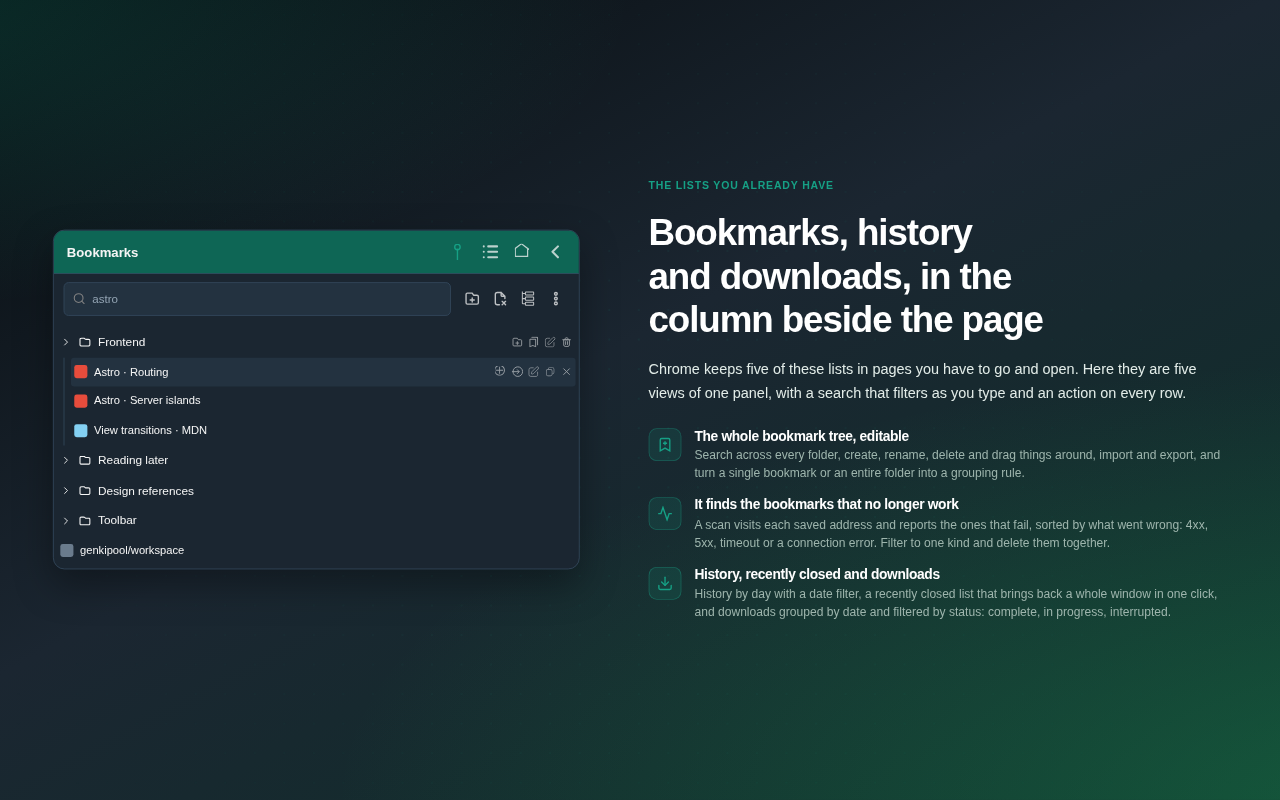
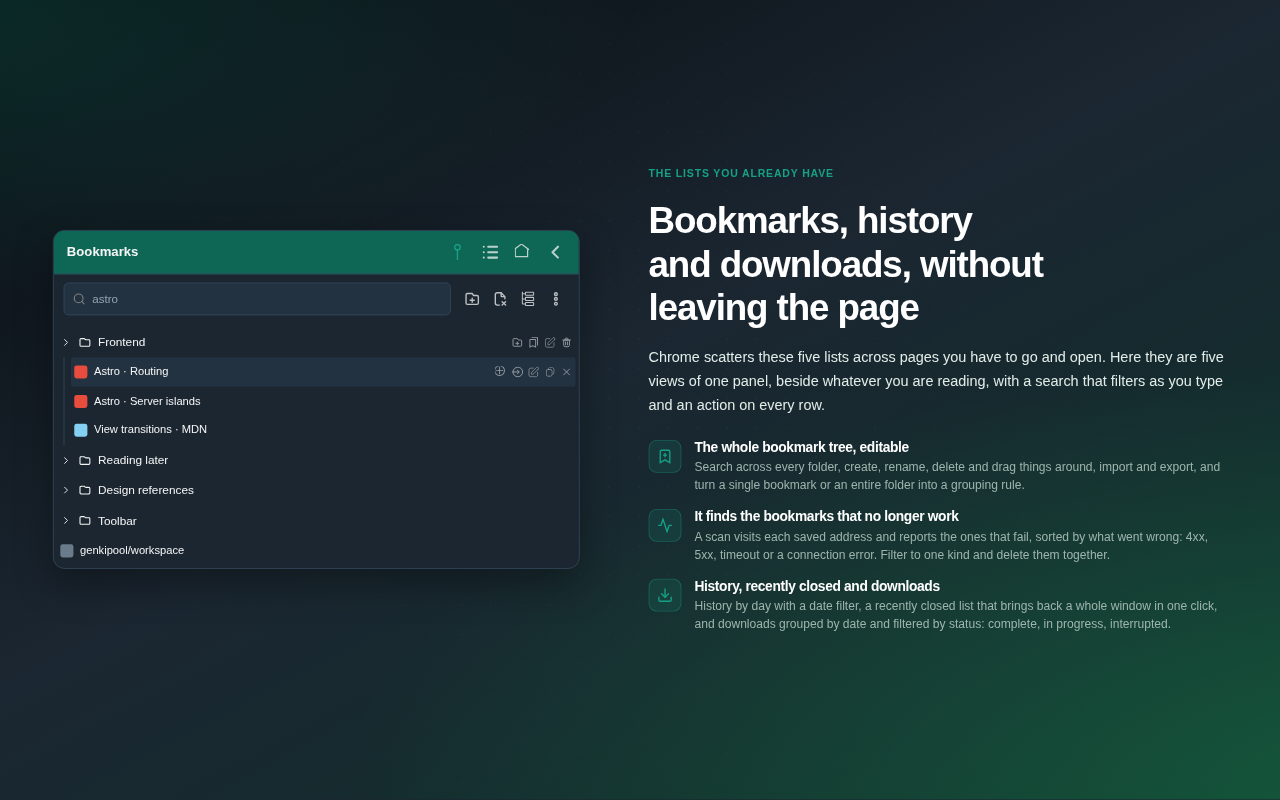
refactor(copy): el panel lateral es un panel, no una columna
«En la columna junto a la página» describe el sitio donde se dibuja algo, no lo
que ese algo hace, y para quien no ha visto la extensión no dice nada: no hay
ninguna columna hasta que la abres. Estaba en tres titulares, en los dos idiomas.

- `bookmarks.title` pasa a decir lo que se gana en vez de dónde aparece: estas
  cinco listas dejan de ser páginas a las que ir. El subtítulo va con él —
  «aquí son cinco vistas de un mismo panel» se quedaba sin decir junto a qué, que
  es justo lo que la columna intentaba cubrir.
- `problem.s3.title` y `activity.f1.title` usaban la misma metáfora y cambian con
  ella, aunque no se hubiera preguntado por ellos: dejar dos de tres es cambiar
  una palabra, no una forma de nombrar las cosas.

Las capturas 14 y 15 de la ficha llevan estos titulares dentro, así que se vuelven
a tomar en los dos idiomas. Márgenes comprobados: 53px o más por los cuatro lados,
igual que el resto del juego.

Claude-Session: https://claude.ai/code/session_01T1hMvhjh6knzHjP4wHxJHH

diff --git a/src/i18n/ui.ts b/src/i18n/ui.ts
@@ -96,7 +96,7 @@ export const ui = {
         'problem.s2.title': 'The list keeps itself short',
         'problem.s2.desc':
             'A group nobody has touched folds itself when its timer runs out, the duplicate counter clears them in one click, and a whole group can be backed up and reopened days later exactly as it was.',
-        'problem.s3.title': 'It is all in the same column',
+        'problem.s3.title': 'It is all in the same panel',
         'problem.s3.desc':
             'Bookmarks, history, recently closed tabs, the reading list, downloads, notes, the screenshot gallery and the assistant are nine views of one side panel, beside the page rather than instead of it.',
         'problem.s4.title': 'One key for each of them',
@@ -297,7 +297,7 @@ export const ui = {
         'activity.title': 'Web activity: where your day goes, and what you do about it',
         'activity.subtitle':
             'The side panel holds today; the full page holds the rest. Time per site and per category, and rules that stop a site once it has had enough of your day. All of it recorded on this device, and none of it sent anywhere.',
-        'activity.f1.title': 'Today, in the column beside the page',
+        'activity.f1.title': 'Today, beside the page you are on',
         'activity.f1.desc':
             'One box per site, folded, with the time it has taken. Unfold it and you get visits, average time per visit, its share of the day, and the three rules that govern it.',
         'activity.f2.title': 'A daily cap, a weekly cap, and opening hours',
@@ -319,9 +319,9 @@ export const ui = {
 
         // Dedicated Showcase 5: Bookmarks & Link Auditor
         'bookmarks.badge': 'The lists you already have',
-        'bookmarks.title': 'Bookmarks, history and downloads, in the column beside the page',
+        'bookmarks.title': 'Bookmarks, history and downloads, without leaving the page',
         'bookmarks.subtitle':
-            'Chrome keeps five of these lists in pages you have to go and open. Here they are five views of one panel, with a search that filters as you type and an action on every row.',
+            'Chrome scatters these five lists across pages you have to go and open. Here they are five views of one panel, beside whatever you are reading, with a search that filters as you type and an action on every row.',
         'bookmarks.f1.title': 'The whole bookmark tree, editable',
         'bookmarks.f1.desc':
             'Search across every folder, create, rename, delete and drag things around, import and export, and turn a single bookmark or an entire folder into a grouping rule.',
@@ -1292,7 +1292,7 @@ export const ui = {
         'problem.s2.title': 'La lista se mantiene corta sola',
         'problem.s2.desc':
             'El grupo que nadie toca se pliega al vencer su temporizador, el contador de duplicadas las limpia de un clic, y un grupo entero se respalda y se reabre días después tal y como estaba.',
-        'problem.s3.title': 'Todo está en la misma columna',
+        'problem.s3.title': 'Todo está en el mismo panel',
         'problem.s3.desc':
             'Marcadores, historial, pestañas cerradas, lista de lectura, descargas, notas, galería de capturas y asistente son nueve vistas de un mismo panel lateral, junto a la página y no en lugar de ella.',
         'problem.s4.title': 'Una tecla para cada cosa',
@@ -1493,7 +1493,7 @@ export const ui = {
         'activity.title': 'Actividad web: a dónde se va tu día y qué haces con él',
         'activity.subtitle':
             'El panel lateral guarda el día de hoy; la página completa guarda el resto. Tiempo por sitio y por categoría, y reglas que paran un sitio cuando ya ha tenido bastante de tu día. Todo se registra en este equipo y nada sale de aquí.',
-        'activity.f1.title': 'Hoy, en la columna junto a la página',
+        'activity.f1.title': 'Hoy, junto a la página que estás viendo',
         'activity.f1.desc':
             'Una caja por sitio, plegada, con el tiempo que se ha llevado. La despliegas y tienes visitas, tiempo medio por visita, su parte del día y las tres reglas que lo gobiernan.',
         'activity.f2.title': 'Tope diario, tope semanal y horario',
@@ -1515,9 +1515,9 @@ export const ui = {
 
         // Dedicated Showcase 5: Bookmarks & Link Auditor
         'bookmarks.badge': 'Las listas que ya tienes',
-        'bookmarks.title': 'Marcadores, historial y descargas, en la columna junto a la página',
+        'bookmarks.title': 'Marcadores, historial y descargas, sin salir de la página',
         'bookmarks.subtitle':
-            'Chrome guarda cinco de estas listas en páginas que hay que ir a abrir. Aquí son cinco vistas de un mismo panel, con una búsqueda que filtra mientras escribes y una acción en cada fila.',
+            'Chrome reparte estas cinco listas en páginas a las que hay que ir. Aquí son cinco vistas de un mismo panel, junto a lo que estés leyendo, con un buscador que filtra mientras escribes y una acción en cada fila.',
         'bookmarks.f1.title': 'El árbol de marcadores entero, editable',
         'bookmarks.f1.desc':
             'Busca en todas las carpetas, crea, renombra, borra y arrastra, importa y exporta, y convierte un marcador suelto o una carpeta completa en una regla de agrupación.',
